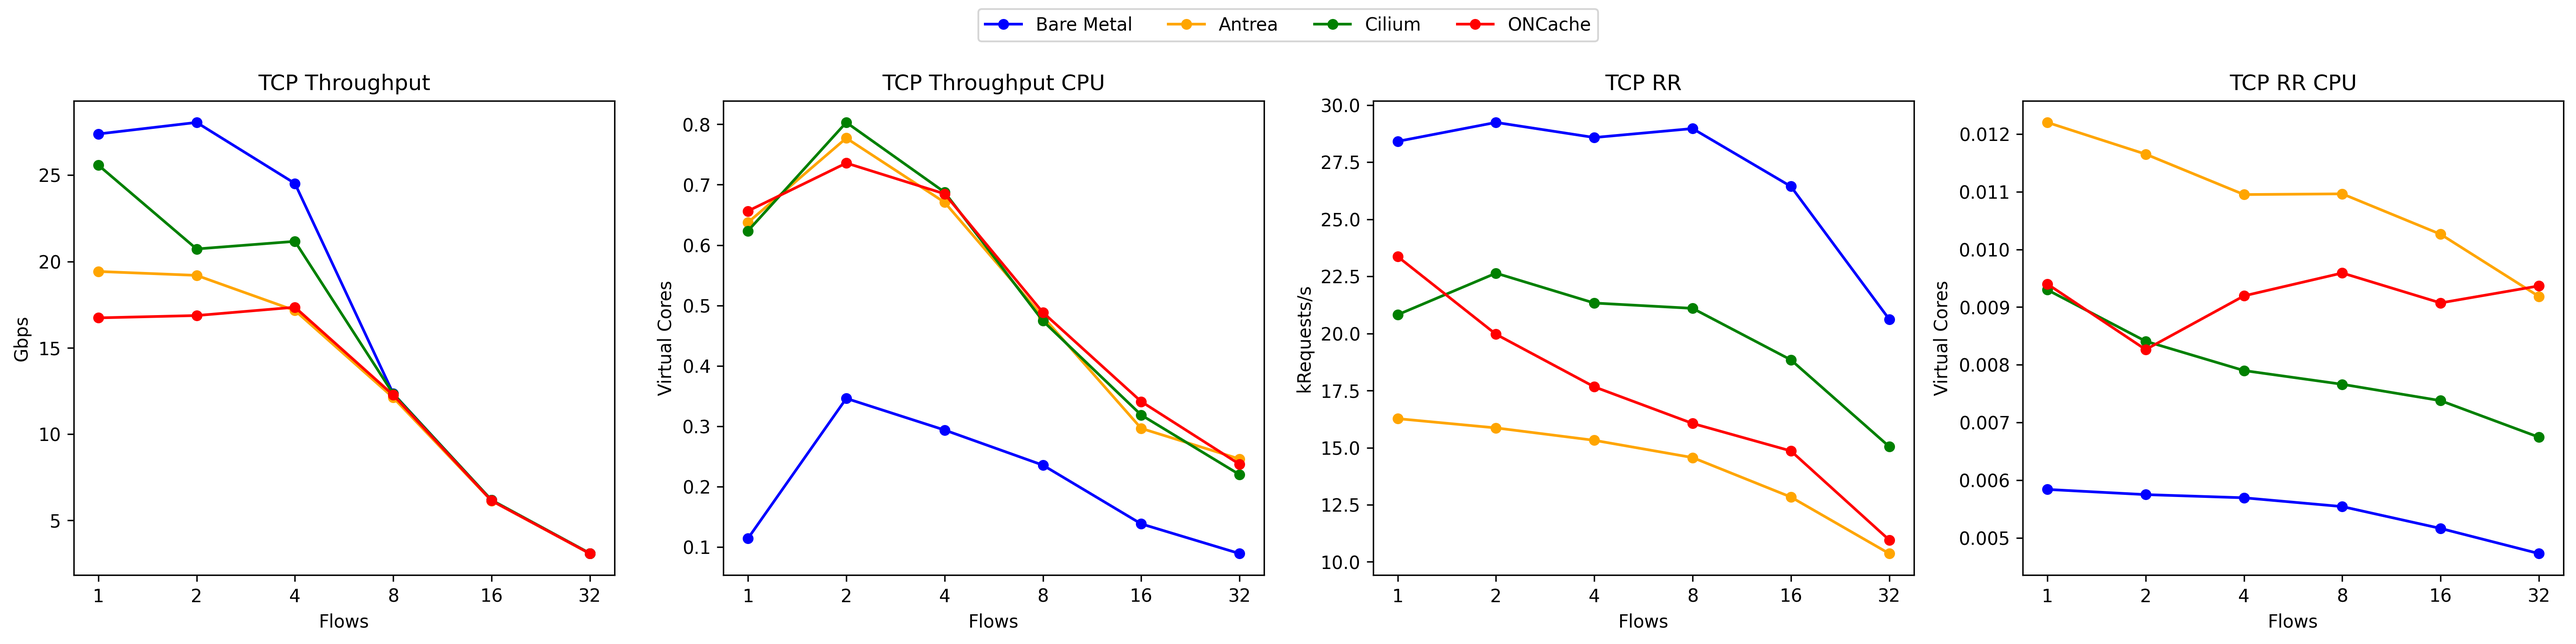
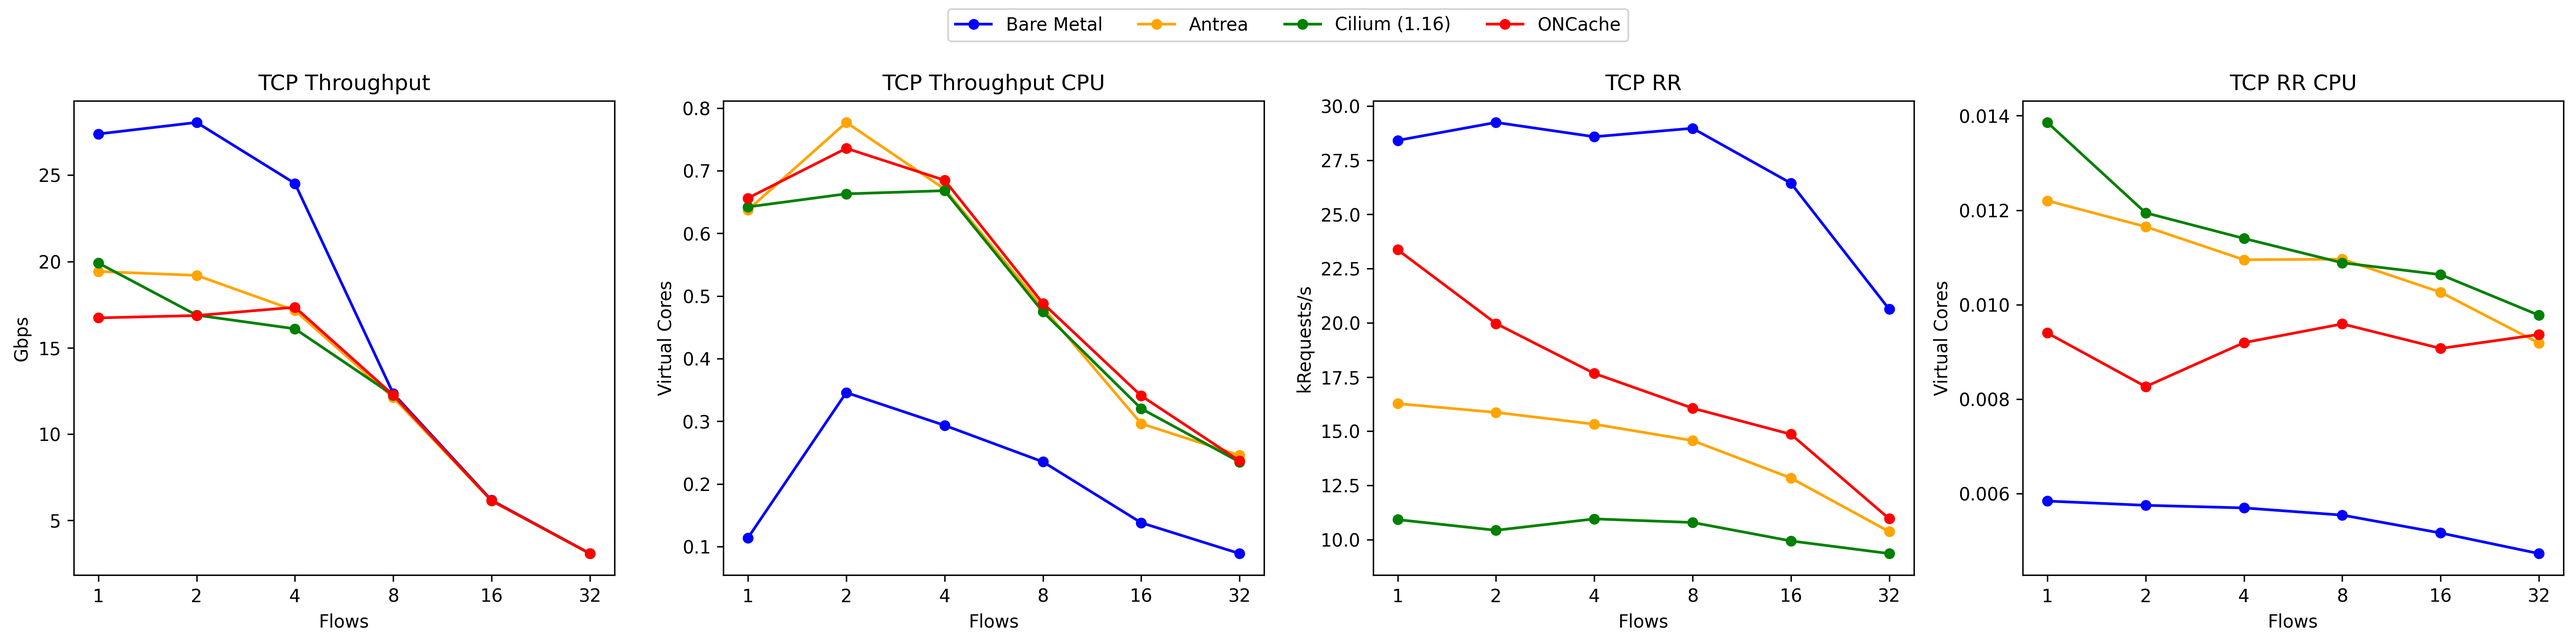
Update plotting and scripts

diff --git a/plot.py b/plot.py
@@ -35,8 +35,8 @@ DATA_CONFIG: Dict[str, DataConfig] = {
         "color": "orange",
     },
     "k8s-cilium": {
-        "filename": "results/{}_k8s_output_cilium_cloudlab.csv",
-        "label": "Cilium",
+        "filename": "results/{}_k8s_output_cilium_1-16_cloudlab.csv",
+        "label": "Cilium (1.16)",
         "color": "green",
     },
     "k8s-oncache": {
